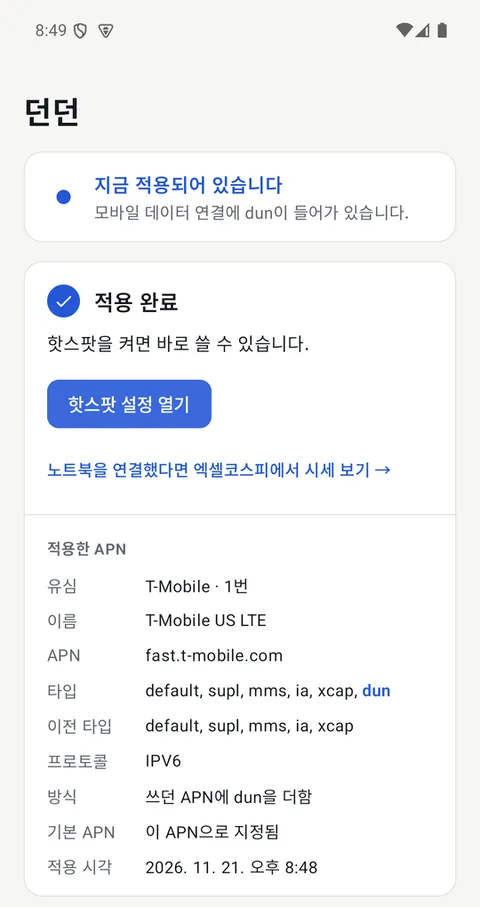
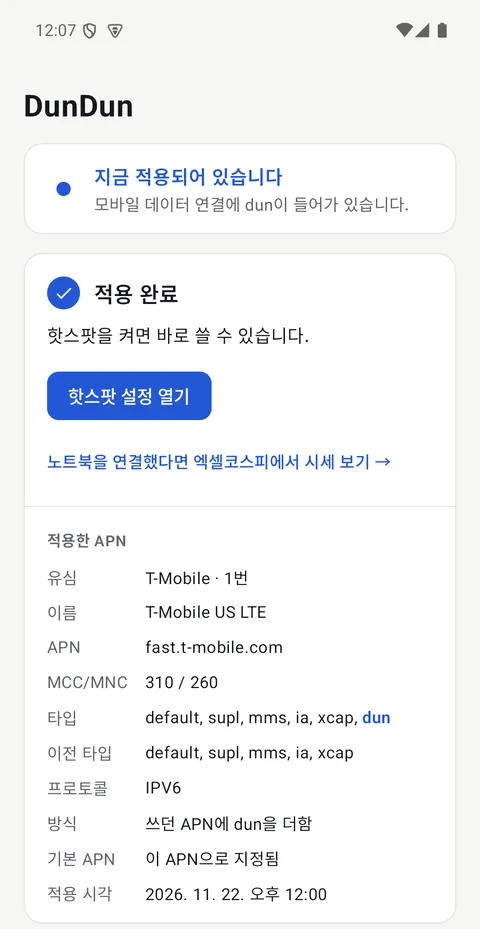
DunDun 소개: 이름 통일, 공유데이터 제한 해제로 설명

diff --git a/dundun/index.html b/dundun/index.html
@@ -3,16 +3,16 @@
 <head>
 <meta charset="utf-8">
 <meta name="viewport" content="width=device-width, initial-scale=1">
-<title>안드로이드 테더링 제한 해결 앱 | 던던</title>
-<meta name="description" content="데이터를 다 써서 핫스팟이 막혔을 때, 알뜰폰에서 핫스팟이 안 될 때 APN을 설정해 주는 무료 오픈소스 앱입니다. 갤럭시 등 안드로이드 13 이상에서 PC·루팅·Shizuku 없이 폰 하나로 끝납니다.">
+<title>공유데이터 제한 해제 앱 | DunDun</title>
+<meta name="description" content="공유데이터(테더링 데이터)를 다 써서 핫스팟이 막혔을 때, 남은 일반 데이터로 핫스팟을 쓰게 해 주는 무료 오픈소스 앱 DunDun(던던). 데이터가 늘어나는 건 아니고 일반 데이터를 씁니다. 갤럭시 등 안드로이드 13 이상, PC·루팅·Shizuku 없이.">
 <link rel="canonical" href="https://seyong.me/dundun/">
 <link rel="alternate" hreflang="ko" href="https://seyong.me/dundun/">
 <link rel="alternate" hreflang="en" href="https://seyong.me/dundun/en/">
 <link rel="alternate" hreflang="x-default" href="https://seyong.me/dundun/">
 <meta property="og:type" content="website">
-<meta property="og:site_name" content="던던">
-<meta property="og:title" content="안드로이드 테더링 제한 해결 앱 | 던던">
-<meta property="og:description" content="핫스팟이 안 될 때 APN을 설정해 주는 무료 오픈소스 앱. PC·루팅·Shizuku 없이 폰 하나로.">
+<meta property="og:site_name" content="DunDun">
+<meta property="og:title" content="공유데이터 제한 해제 앱 | DunDun">
+<meta property="og:description" content="공유데이터를 다 써도 남은 일반 데이터로 핫스팟을 쓰게 해 주는 무료 오픈소스 앱. PC·루팅·Shizuku 없이 폰 하나로.">
 <meta property="og:url" content="https://seyong.me/dundun/">
 <meta property="og:image" content="https://seyong.me/dundun/img/og-ko.png">
 <meta property="og:locale" content="ko_KR">
@@ -25,9 +25,9 @@
 {
   "@context": "https://schema.org",
   "@type": "SoftwareApplication",
-  "name": "던던",
-  "alternateName": "DunDun",
-  "description": "핫스팟이 안 될 때 APN을 설정해 주는 안드로이드용 무료 오픈소스 앱",
+  "name": "DunDun",
+  "alternateName": "던던",
+  "description": "공유데이터를 다 써도 남은 일반 데이터로 핫스팟을 쓰게 해 주는 안드로이드용 무료 오픈소스 앱",
   "operatingSystem": "Android 13+",
   "applicationCategory": "UtilitiesApplication",
   "url": "https://seyong.me/dundun/",
@@ -42,6 +42,8 @@
   "@context": "https://schema.org",
   "@type": "FAQPage",
   "mainEntity": [
+    {"@type": "Question", "name": "테더링을 무제한으로 쓸 수 있게 되나요?",
+     "acceptedAnswer": {"@type": "Answer", "text": "아니요. 핫스팟이 공유데이터 대신 일반 데이터를 쓰게 될 뿐입니다. 일반 데이터를 다 쓰면 요금제의 속도 제한이 그대로 걸리고, 그 속도로 핫스팟을 쓰게 됩니다."}},
     {"@type": "Question", "name": "핫스팟을 써도 테더링(공유) 데이터가 줄지 않나요?",
      "acceptedAnswer": {"@type": "Answer", "text": "그럴 가능성이 큽니다. 핫스팟 트래픽이 테더링 전용 APN 대신 일반 데이터와 같은 APN으로 나가기 때문입니다. 다만 통신사가 다른 방법으로 테더링을 가려내면 공유 데이터로 잡히거나 막힐 수 있고, 공유 데이터 대신 일반 데이터를 쓰는 것이라 공짜가 되는 건 아닙니다."}},
     {"@type": "Question", "name": "어떤 폰에서 되나요? 갤럭시만 되나요?",
@@ -61,7 +63,7 @@
   <div class="wrap">
     <a class="brand" href="/dundun/">
       <svg viewBox="0 0 24 24" aria-hidden="true"><path fill="#fff" d="M12,11c-1.1,0 -2,0.9 -2,2s0.9,2 2,2 2,-0.9 2,-2 -0.9,-2 -2,-2zM18,13c0,-3.31 -2.69,-6 -6,-6s-6,2.69 -6,6c0,2.22 1.21,4.15 3,5.19l1,-1.74c-1.19,-0.7 -2,-1.97 -2,-3.45 0,-2.21 1.79,-4 4,-4s4,1.79 4,4c0,1.48 -0.81,2.75 -2,3.45l1,1.74c1.79,-1.04 3,-2.97 3,-5.19zM12,3C6.48,3 2,7.48 2,13c0,3.7 2.01,6.92 4.99,8.65l1,-1.73C5.61,18.53 4,15.96 4,13c0,-4.42 3.58,-8 8,-8s8,3.58 8,8c0,2.96 -1.61,5.53 -4,6.92l1,1.73c2.99,-1.73 5,-4.95 5,-8.65 0,-5.52 -4.48,-10 -10,-10z"/></svg>
-      던던
+      DunDun
     </a>
     <a class="lang" href="/dundun/en/" hreflang="en">English</a>
   </div>
@@ -69,8 +71,9 @@
 
 <main class="wrap">
   <div class="hero">
-    <h1>안드로이드 테더링 제한,<br>앱 하나로 해결</h1>
-    <p>데이터를 다 써서 핫스팟이 막혔을 때 APN을 설정해 주는 무료 오픈소스 앱입니다. PC, 루팅, Shizuku 없이 폰 하나로 끝납니다.</p>
+    <h1>공유데이터 제한 해제,<br>앱 하나로</h1>
+    <p>공유데이터를 다 써서 핫스팟이 막혀도, 남은 일반 데이터로 핫스팟을 쓸 수 있게 APN을 설정해 주는 무료 오픈소스 앱 DunDun(던던)입니다. PC, 루팅, Shizuku 없이 폰 하나로 끝납니다.</p>
+    <p class="callout">데이터가 무한히 생기는 앱이 아닙니다. 핫스팟이 공유데이터 대신 일반 데이터를 쓰게 바꿀 뿐이라, 일반 데이터를 다 쓰면 요금제의 속도 제한이 그대로 걸립니다.</p>
     <div class="cta">
       <a class="btn primary" href="https://github.com/ohseyong/dundun/releases/latest">APK 받기</a>
       <a class="btn ghost" href="https://github.com/ohseyong/dundun">GitHub에서 보기</a>
@@ -79,15 +82,16 @@
   </div>
 
   <div class="shots">
-    <figure><img src="/dundun/img/ko-steps.webp" width="480" height="720" alt="던던 설정 단계 화면" loading="lazy"><figcaption>네 단계만 따라 하면 끝</figcaption></figure>
+    <figure><img src="/dundun/img/ko-steps.webp" width="480" height="720" alt="DunDun 설정 단계 화면" loading="lazy"><figcaption>네 단계만 따라 하면 끝</figcaption></figure>
     <figure><img src="/dundun/img/ko-code.webp" width="480" height="686" alt="페어링 창 위에 떠 있는 코드 입력 알림" loading="lazy"><figcaption>코드는 알림에서 바로 입력</figcaption></figure>
-    <figure><img src="/dundun/img/ko-done.webp" width="480" height="907" alt="적용 완료와 적용한 APN 정보" loading="lazy"><figcaption>무엇이 바뀌었는지 한눈에</figcaption></figure>
+    <figure><img src="/dundun/img/ko-done.webp" width="480" height="929" alt="적용 완료와 적용한 APN 정보" loading="lazy"><figcaption>무엇이 바뀌었는지 한눈에</figcaption></figure>
   </div>
 
   <section>
     <h2>이럴 때 쓰세요</h2>
     <ul class="list card">
-      <li><b>데이터를 다 쓰니 핫스팟이 막혔을 때</b><span>속도 제한이 걸린 뒤 노트북이나 태블릿을 핫스팟에 연결할 수 없는 경우</span></li>
+      <li><b>공유데이터를 다 써서 핫스팟이 막혔을 때</b><span>일반 데이터는 남았는데 공유데이터 한도가 끝나 노트북이나 태블릿을 핫스팟에 연결할 수 없는 경우</span></li>
+      <li><b>데이터를 다 써서 속도 제한이 걸린 뒤 핫스팟이 막혔을 때</b><span>제한된 속도라도 핫스팟으로 쓰고 싶은 경우</span></li>
       <li><b>알뜰폰에서 핫스팟이 안 될 때</b><span>핫스팟은 켜지는데 연결한 기기에서 인터넷이 안 되는 경우</span></li>
       <li><b>예전 방법이 너무 복잡했을 때</b><span>DunUnlocker와 Shizuku를 같이 깔고 여러 화면을 오가던 과정을 앱 하나로 줄였습니다</span></li>
     </ul>
@@ -136,19 +140,20 @@
       <li><b>절전 해제·부팅 완료</b><span>하루 한 번 업데이트 확인 예약</span></li>
     </ul>
     <p class="note">연락처, 위치, 사진·파일, 전화, 카메라, 마이크 권한은 요청하지 않습니다.</p>
-    <p class="note">무선 디버깅은 켜져 있는 동안 폰에 강한 권한을 여는 기능입니다. 던던은 일이 끝나면 자동으로 끄지만, 직접 켰다면 쓰고 나서 꺼 두세요. 무선 디버깅 설정의 '페어링된 기기'에 DunDun이 남는데, 다시 적용하거나 되돌릴 일이 없으면 지워도 됩니다.</p>
+    <p class="note">무선 디버깅은 켜져 있는 동안 폰에 강한 권한을 여는 기능입니다. DunDun은 일이 끝나면 자동으로 끄지만, 직접 켰다면 쓰고 나서 꺼 두세요. 무선 디버깅 설정의 '페어링된 기기'에 DunDun이 남는데, 다시 적용하거나 되돌릴 일이 없으면 지워도 됩니다.</p>
   </section>
 
   <section>
     <h2>자주 묻는 질문</h2>
     <div class="card">
+      <details><summary>테더링을 무제한으로 쓸 수 있게 되나요?</summary><p>아니요. 핫스팟이 공유데이터 대신 일반 데이터를 쓰게 될 뿐입니다. 일반 데이터를 다 쓰면 요금제의 속도 제한이 그대로 걸리고, 그 속도로 핫스팟을 쓰게 됩니다.</p></details>
       <details><summary>핫스팟을 써도 테더링(공유) 데이터가 줄지 않나요?</summary><p>그럴 가능성이 큽니다. 핫스팟 트래픽이 테더링 전용 APN 대신 일반 데이터와 같은 APN으로 나가기 때문입니다. 다만 통신사가 다른 방법으로 테더링을 가려내면 공유 데이터로 잡히거나 막힐 수 있고, 공유 데이터 대신 일반 데이터를 쓰는 것이라 공짜가 되는 건 아닙니다. 처음엔 조금 써 본 뒤 통신사 앱에서 사용량을 확인해 보세요.</p></details>
       <details><summary>어떤 폰에서 되나요? 갤럭시만 되나요?</summary><p>안드로이드 13 이상 폰이면 됩니다. 갤럭시(One UI 7 이상)에서 많이 겪는 문제라 갤럭시를 먼저 생각하고 만들었고, 기능은 안드로이드 표준이라 다른 제조사 폰에서도 같은 방식으로 동작합니다. 설정 중에 Wi‑Fi 연결이 필요하며, 인터넷이 안 되는 Wi‑Fi도 됩니다.</p></details>
       <details><summary>원래대로 되돌릴 수 있나요?</summary><p>네. 앱의 '원래대로 되돌리기'를 누르면 APN 타입과 기본 APN을 처음 상태로 돌려놓습니다.</p></details>
       <details><summary>PC나 Shizuku가 필요한가요?</summary><p>아니요. 앱이 폰의 무선 디버깅에 직접 연결합니다. 처음 한 번 알림에 6자리 페어링 코드를 넣으면 됩니다.</p></details>
       <details><summary>안전한가요?</summary><p>네. 소스가 GitHub에 모두 공개돼 있고, 서버·광고·분석 도구가 없어 개인 정보를 모으지 않습니다. 앱이 하는 일은 APN에 dun을 더하는 것 하나이고, 끝나면 무선 디버깅을 바로 끕니다. 자세한 내용은 이 페이지의 '안전' 항목에 있습니다.</p></details>
     </div>
-    <p class="note">통신사 약관에 따라 테더링 제한을 우회하면 회선 이용이 제한될 수 있습니다. 쓰는 사람이 판단해 주세요.</p>
+    <p class="note">공유데이터 한도를 넘어 핫스팟을 쓰면 통신사 약관에 어긋날 수 있고, 회선 이용이 제한될 수 있습니다. 쓰는 사람이 판단해 주세요.</p>
   </section>
 </main>
 

diff --git a/dundun/en/index.html b/dundun/en/index.html
@@ -3,16 +3,16 @@
 <head>
 <meta charset="utf-8">
 <meta name="viewport" content="width=device-width, initial-scale=1">
-<title>Fix Android Tethering Limits | DunDun</title>
-<meta name="description" content="A free open-source app that sets up your APN when your hotspot is blocked after you use up your data, or doesn't work on an MVNO plan. For Android 13 or later, including Samsung Galaxy. No PC, root, or Shizuku.">
+<title>Lift the Tethering Data Cap | DunDun</title>
+<meta name="description" content="When your hotspot is blocked because the tethering data allowance ran out, DunDun lets it use your remaining regular data. It doesn't add data. Free and open source, for Android 13+ including Galaxy. No PC, root, or Shizuku.">
 <link rel="canonical" href="https://seyong.me/dundun/en/">
 <link rel="alternate" hreflang="ko" href="https://seyong.me/dundun/">
 <link rel="alternate" hreflang="en" href="https://seyong.me/dundun/en/">
 <link rel="alternate" hreflang="x-default" href="https://seyong.me/dundun/">
 <meta property="og:type" content="website">
 <meta property="og:site_name" content="DunDun">
-<meta property="og:title" content="Fix Android Tethering Limits | DunDun">
-<meta property="og:description" content="Sets up your APN when your hotspot won't work. Free and open source. No PC, root, or Shizuku.">
+<meta property="og:title" content="Lift the Tethering Data Cap | DunDun">
+<meta property="og:description" content="Use your hotspot on your regular data after the tethering allowance runs out. Free and open source. No PC, root, or Shizuku.">
 <meta property="og:url" content="https://seyong.me/dundun/en/">
 <meta property="og:image" content="https://seyong.me/dundun/img/og-en.png">
 <meta property="og:locale" content="en_US">
@@ -26,7 +26,7 @@
  "@type": "SoftwareApplication",
  "name": "DunDun",
  "alternateName": "던던",
- "description": "Free open-source Android app that sets up your APN when your hotspot won't work",
+ "description": "Free open-source Android app that lets your hotspot use regular data after the tethering allowance runs out",
  "operatingSystem": "Android 13+",
  "applicationCategory": "UtilitiesApplication",
  "url": "https://seyong.me/dundun/en/",
@@ -44,6 +44,7 @@
  "@context": "https://schema.org",
  "@type": "FAQPage",
  "mainEntity": [
+  {"@type": "Question", "name": "Does this make tethering unlimited?", "acceptedAnswer": {"@type": "Answer", "text": "No. The hotspot uses your regular data instead of the tethering allowance. Once your regular data runs out, your plan's speed limit still applies to the hotspot."}},
   {
    "@type": "Question",
    "name": "Does hotspot use still eat into my tethering/sharing allowance?",
@@ -101,8 +102,9 @@
 
 <main class="wrap">
   <div class="hero">
-    <h1>Android tethering limits,<br>fixed with one app</h1>
-    <p>A free open-source app that sets up your APN when your hotspot is blocked after you use up your data. No PC, root, or Shizuku. Just your phone.</p>
+    <h1>Lift the tethering data cap<br>with one app</h1>
+    <p>When your hotspot is blocked because the tethering data allowance ran out, DunDun sets up your APN so the hotspot can use your remaining regular data. Free and open source. No PC, root, or Shizuku.</p>
+    <p class="callout">It doesn't give you unlimited data. The hotspot just uses your regular data instead of the tethering allowance; once your regular data runs out, your plan's speed limit still applies.</p>
     <div class="cta">
       <a class="btn primary" href="https://github.com/ohseyong/dundun/releases/latest">Download APK</a>
       <a class="btn ghost" href="https://github.com/ohseyong/dundun">View on GitHub</a>
@@ -119,7 +121,8 @@
   <section>
     <h2>When to use it</h2>
     <ul class="list card">
-      <li><b>Your hotspot is blocked after using up your data</b><span>Once you're throttled, laptops and tablets can't use your hotspot</span></li>
+      <li><b>Your tethering allowance ran out</b><span>You still have regular data, but laptops and tablets can't use your hotspot</span></li>
+      <li><b>You used up your data and got throttled</b><span>You want to keep using the hotspot at the reduced speed</span></li>
       <li><b>Hotspot doesn't work on an MVNO plan</b><span>The hotspot turns on, but connected devices get no internet</span></li>
       <li><b>The old way was too complicated</b><span>No more installing DunUnlocker and Shizuku and jumping between screens</span></li>
     </ul>
@@ -174,13 +177,14 @@
   <section>
     <h2>FAQ</h2>
     <div class="card">
+      <details><summary>Does this make tethering unlimited?</summary><p>No. The hotspot uses your regular data instead of the tethering allowance. Once your regular data runs out, your plan's speed limit still applies to the hotspot.</p></details>
       <details><summary>Does hotspot use still eat into my tethering/sharing allowance?</summary><p>Probably not. Hotspot traffic goes out through the same APN as normal data instead of a tethering APN. It isn't guaranteed: if your carrier detects tethering another way, it may still count it or block it. It also uses your normal data instead, so it isn't free.</p></details>
       <details><summary>Which phones does it work on? Only Galaxy?</summary><p>Any phone on Android 13 or later. It was built with Galaxy (One UI 7+) in mind because that's where the problem is common, but it uses standard Android features, so it works the same way on other brands. You need Wi-Fi during setup; Wi-Fi without internet works too.</p></details>
       <details><summary>Can I undo it?</summary><p>Yes. Tap Restore original in the app to put the APN type and default APN back.</p></details>
       <details><summary>Do I need a PC or Shizuku?</summary><p>No. The app connects to the phone's wireless debugging itself. You enter a 6-digit pairing code in a notification once.</p></details>
       <details><summary>Is it safe?</summary><p>Yes. All source code is on GitHub, and there is no server, ads, or analytics, so it collects no personal data. The app does one thing: add dun to your APN. It turns wireless debugging off when done. See the Safety section on this page.</p></details>
     </div>
-    <p class="note">Getting around tethering limits may break your carrier's terms, and your line could be restricted. Use it at your own judgment.</p>
+    <p class="note">Using the hotspot beyond your tethering allowance may break your carrier's terms, and your line could be restricted. Use it at your own judgment.</p>
   </section>
 </main>
 

diff --git a/dundun/style.css b/dundun/style.css
@@ -105,3 +105,5 @@ code { font-family: ui-monospace, SFMono-Regular, Menlo, monospace; font-size: 1
 .perms li { display: grid; grid-template-columns: 10.5em 1fr; column-gap: 16px; }
 .perms li b { margin: 0; }
 @media (max-width: 560px) { .perms li { grid-template-columns: 1fr; } .perms li b { margin-bottom: 2px; } }
+
+.hero .callout { margin-top: 14px; padding: 12px 16px; border-radius: 12px; background: var(--surface); border: 1px solid var(--line); color: var(--text); font-size: 15px; line-height: 1.6; }
